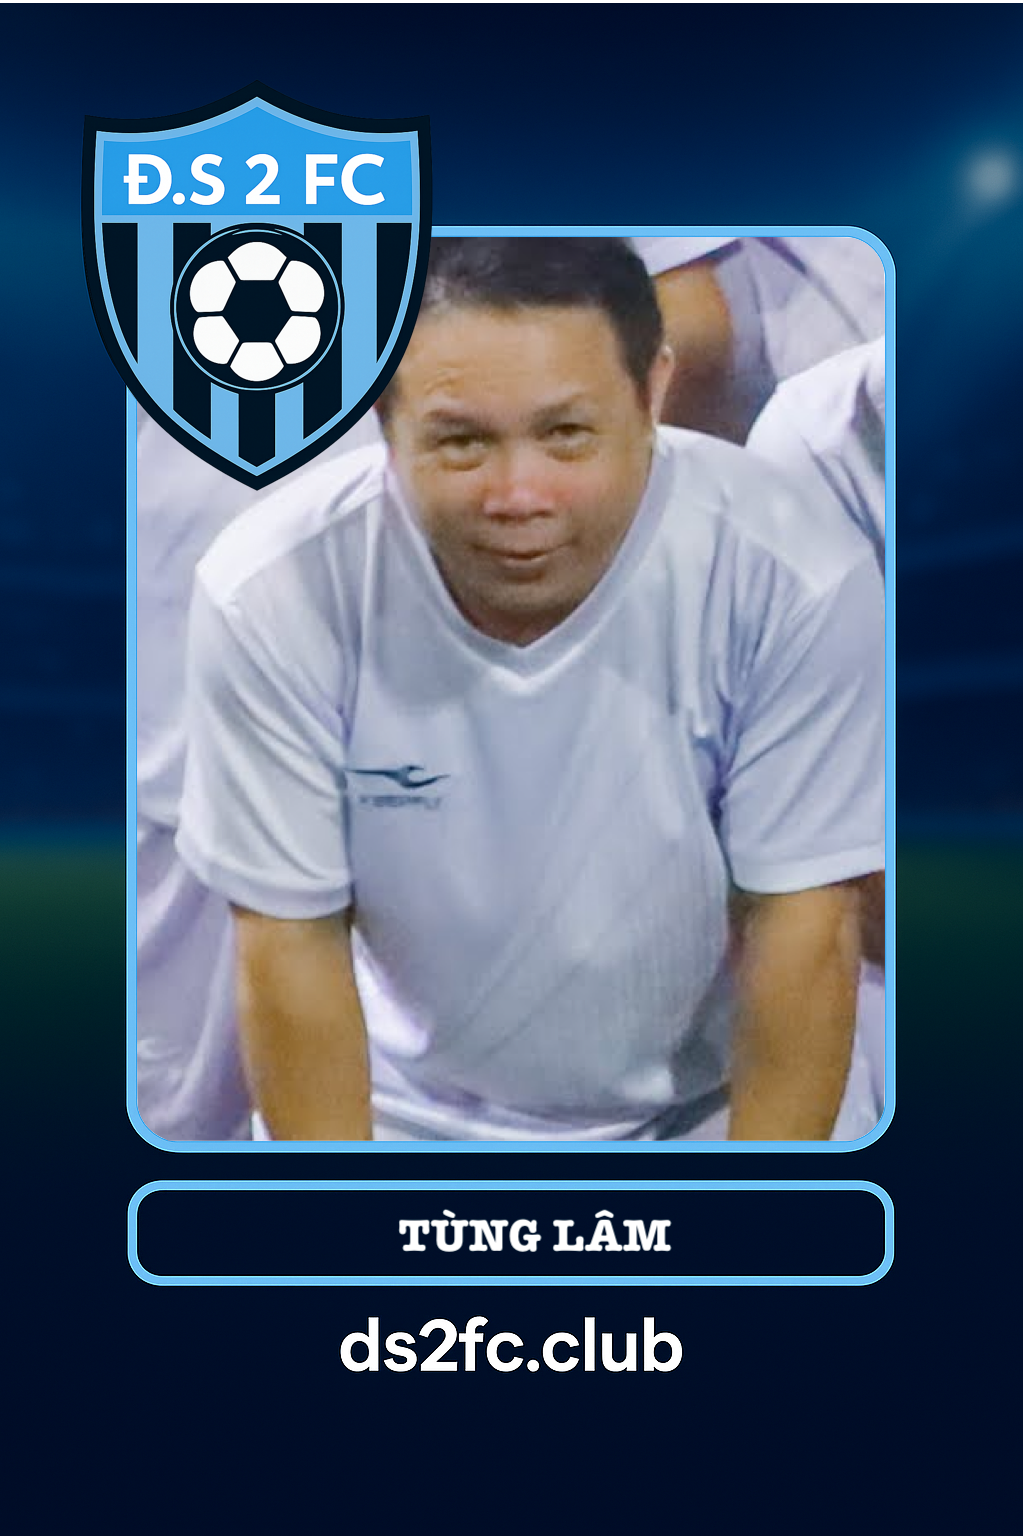
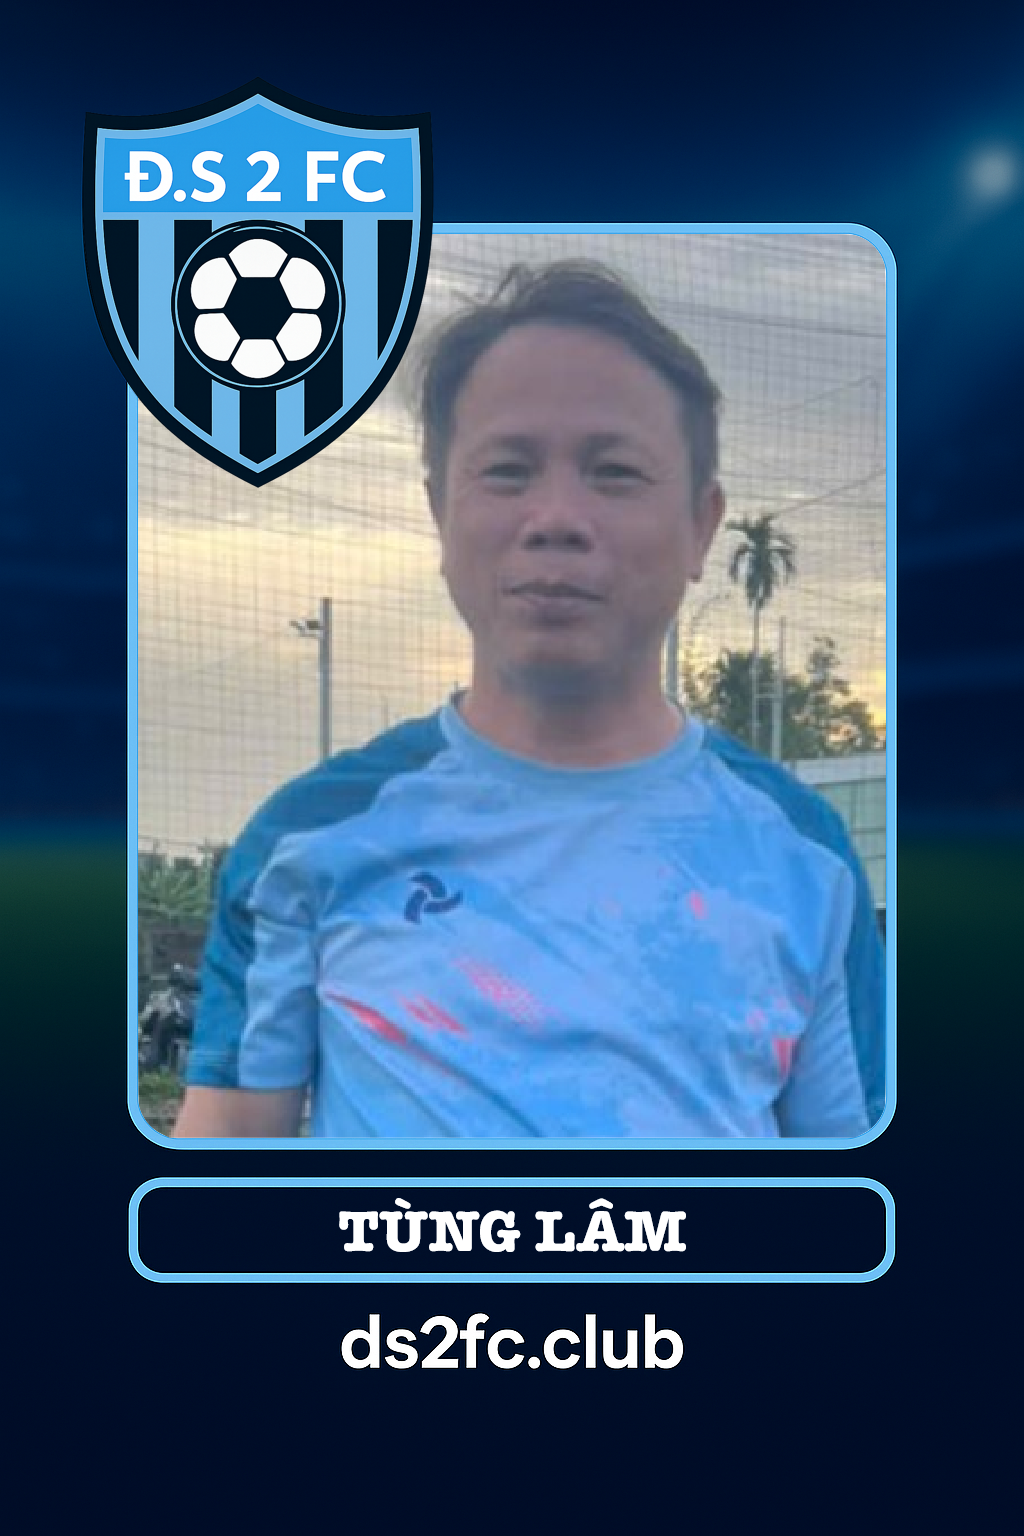
Deploy ds2fc on Thu Jul 24 11:57:53 SEAST 2025

diff --git a/flutter_service_worker.js b/flutter_service_worker.js
@@ -62,7 +62,7 @@ const RESOURCES = {"assets/AssetManifest.bin": "f54d5a3cd9ed5a3732c036aab029d453
 "assets/assets/images/players/trungle.jpg": "c494794fb4fbb98a75fbfcbdc68e7117",
 "assets/assets/images/players/truongtuanphuong.png": "6746ac058918f34fb3ab6ef70df7732e",
 "assets/assets/images/players/tuan.png": "7900a17398337aac6114e81b5a1bc9d1",
-"assets/assets/images/players/tunglam.png": "9c6d6ca5f6a15b7f234ae75ef0c8c11c",
+"assets/assets/images/players/tunglam.png": "65295aac9eef670b1f6e631eb80fa807",
 "assets/assets/images/players/vhieu.png": "71bc3fa94599bd7660fa2ce107aef307",
 "assets/assets/images/players/viethocons.png": "6b6b01d6a757feb7f96d890c1ae5ea4c",
 "assets/assets/images/players/viettien.png": "9efcdeb872d96f74fd5d111750102a48",
@@ -89,7 +89,7 @@ const RESOURCES = {"assets/AssetManifest.bin": "f54d5a3cd9ed5a3732c036aab029d453
 "canvaskit/skwasm.wasm": "39dd80367a4e71582d234948adc521c0",
 "favicon.png": "4e1c00567e5fd8927d26abb9fc4010e8",
 "flutter.js": "83d881c1dbb6d6bcd6b42e274605b69c",
-"flutter_bootstrap.js": "7845db2ab752a228d08f5d0a174fb9de",
+"flutter_bootstrap.js": "3520b319bb4bc5dbfc68d07a50100db5",
 "icons/Icon-192.png": "b858eec0d5dfa6aa3181e070f0afdded",
 "icons/Icon-512.png": "90395b7ead299b7700b1ed3760e1d29e",
 "icons/Icon-maskable-192.png": "b858eec0d5dfa6aa3181e070f0afdded",

diff --git a/flutter_bootstrap.js b/flutter_bootstrap.js
@@ -39,6 +39,6 @@ _flutter.buildConfig = {"engineRevision":"8cd19e509d6bece8ccd74aef027c4ca9473630
 
 _flutter.loader.load({
   serviceWorkerSettings: {
-    serviceWorkerVersion: "1523922083"
+    serviceWorkerVersion: "3733551128"
   }
 });
